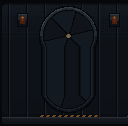
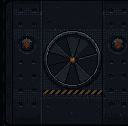
The three irises repainted at the new height, back in the pool
Jon: "Irises: A" (cap 12 generations). Their rings ran nearly top to
bottom, so no clean extension existed. Each was repainted by pixflux from
an init of its own take centred in the taller recess, the 48 new rows
drawn from its own wall (the columns beside the ring tiling their own wall
rows, those over and under it that row's wall colour), set in Drum 3's
taller entrance; only the recess pasted back, aligned on the rest.

6 of 12 generations: iris 220_1 first take (strength 220, as it held in
round four); iris 90_0 and 90_1 re-imagined themselves at 90 (a valve
wheel; lamps lost), so they went again closer to their art: 90_0 at 250,
90_1 at 250 (its diagonal lamps became dots) then 330, which kept them.
Rings round, the red lamps and the hazard sill kept. Takes, script and
ledger in art/stations/src/painted/irises/; the recesses in
src/interiors/tall/.

diff --git a/tkg/art/stations/src/painted/irises/iris.py b/tkg/art/stations/src/painted/irises/iris.py
@@ -1,0 +1,202 @@
+"""THE THREE IRISES AT THE NEW HEIGHT (Jon: "Irises: A", hard cap 12 generations). Each kept iris take, its ring kept
+round and centred in the taller recess (128 x 126), the 48 new rows drawn in code from its own wall (columns beside
+the ring tile their own wall rows; columns under/over the ring take that row's wall colour), set in Drum 3's taller
+entrance (plate x 63..246, rows 185..352, 184 x 168), re-rendered by pixflux at the strength its take held at; the
+recess only pasted back after aligning the take on everything outside it.
+
+    python iris.py --plan                          inits, nothing spent
+    python iris.py --go <iris id> [--seed N] [--strength S]
+    python iris.py --post <iris id> <take tag>     the recess, flat and lit, into joined/
+Key: PIXELLAB_API_KEY in the environment, never printed. Ledger: ledger_iris.json (cap 12).
+"""
+import base64, json, os, sys, time, urllib.request, urllib.error
+import numpy as np
+from PIL import Image
+
+HERE = os.path.dirname(os.path.abspath(__file__))
+ST = "C:/Users/Jon/Documents/GitHub/tk-wt/stations/tkg/art/stations"
+sys.path.insert(0, ST)
+import mouth  # noqa: E402
+
+API = "https://api.pixellab.ai/v1/generate-image-pixflux"
+CAP = 12
+LEDGER = os.path.join(HERE, "ledger_iris.json")
+CX, CY, CW, CH = 63, 185, 184, 168
+RX0, RY0, RX1, RY1 = 84, 206, 212, 332          # the taller recess (plate px)
+TALL = 48
+IRISES = {
+    "iris_90_0": dict(strength=90, seed=71000, ring=(36, 101)),
+    "iris_90_1": dict(strength=90, seed=71100, ring=(38, 104)),
+    "iris_220_1": dict(strength=220, seed=71200, ring=(37, 98)),
+}
+PROMPT = ("Seen strictly head-on, a flat elevation: a tall landing-bay recess inside a riveted steel frame, a thin lip "
+          "above and a deep lip below with small amber lamps along their edges, a strip of small amber lamps on the "
+          "frame's right. Inside the recess: a round airlock iris door of six overlapping steel blades set in a heavy "
+          "bolted ring centred on the back wall, a perfectly round ring, plain steel wall panels above and below it, a "
+          "pin of warm light where the blades meet, a red warning lamp in a housing on each side, yellow and black "
+          "hazard paint along the sill. Pixel art, crisp dark outline, detailed shading. No text, no letters, no "
+          "numbers, no people.")
+NEG = ("text, letters, numbers, writing, signage, logo, people, person, perspective, vanishing point, corridor in "
+       "perspective, isometric, three-quarter view, top-down view, landscape, sky, clouds, hills, trees, sunset, "
+       "painting, picture frame, window with a view of a planet, oval, ellipse, stretched, capsule, pill shape, gun, "
+       "rifle, cannon, missile, submarine, boat, car, truck, house")
+GAME_PAL = "C:/Users/Jon/Documents/GitHub/ThreeKelvin/tkg/art/sprites/palette_three_kelvin.png"
+
+
+def taller_iris(k):
+    """the iris picture (flat) at 128 x 126: its frame rows top and bottom kept, 24 rows of its own wall above and
+    below the rest"""
+    a = np.asarray(Image.open(os.path.join(ST, "src", "interiors", k + "_flat.png")).convert("RGB")).astype(float)
+    H, W = a.shape[:2]
+    r0, r1 = IRISES[k]["ring"]
+    outside = np.ones(W, bool); outside[r0:r1] = False
+
+    def band(rows):
+        seg = a[rows[0]:rows[1]]
+        b = np.zeros((24, W, 3))
+        for y in range(24):
+            src = seg[y % seg.shape[0]]
+            row = src.copy()
+            med = np.median(src[outside], 0)
+            row[~outside] = med
+            b[y] = row
+        return b
+
+    top = band((30, 38))
+    bot = band((30, 38))
+    return np.concatenate([a[:4], top, a[4:H - 4], bot, a[H - 4:]], 0)
+
+
+def plate():
+    p = np.asarray(Image.open(os.path.join(ST, "src", "drum3.png")).convert("RGBA"))
+    t, _, _, _ = mouth.taller(p)
+    return t
+
+
+def init(k):
+    t = plate().copy()
+    ir = taller_iris(k)
+    t[RY0:RY1, RX0:RX1, :3] = np.clip(ir, 0, 255).astype(np.uint8)
+    t[RY0:RY1, RX0:RX1, 3] = 255
+    return t[CY:CY + CH, CX:CX + CW]
+
+
+def palette(k):
+    cols = [tuple(int(v) for v in c) for c in np.asarray(Image.open(GAME_PAL).convert("RGB")).reshape(-1, 3)]
+    a = np.asarray(Image.open(os.path.join(ST, "src", "interiors", k + "_flat.png")).convert("RGB")).reshape(-1, 3)
+    q = Image.fromarray(a.reshape(1, -1, 3).astype(np.uint8)).quantize(24, method=Image.MEDIANCUT).getpalette()[:72]
+    cols += [tuple(q[i * 3:i * 3 + 3]) for i in range(24)]
+    u = list(dict.fromkeys(cols))
+    o = Image.new("RGB", (len(u), 1)); o.putdata(u)
+    path = os.path.join(HERE, "pal_%s.png" % k); o.save(path)
+    return path
+
+
+def ledger():
+    return json.load(open(LEDGER)) if os.path.exists(LEDGER) else {"spent": 0.0, "takes": []}
+
+
+def b64(path):
+    return base64.b64encode(open(path, "rb").read()).decode("ascii")
+
+
+def go(k, seed=None, strength=None):
+    L = ledger()
+    if L["spent"] + 1 > CAP:
+        sys.exit("cap: nothing sent")
+    key = os.environ.get("PIXELLAB_API_KEY", "").strip()
+    if not key:
+        sys.exit("no key; nothing sent")
+    j = IRISES[k]
+    seed = seed if seed is not None else j["seed"]
+    strength = strength if strength is not None else j["strength"]
+    ip = os.path.join(HERE, "inits", k + ".png")
+    body = {"description": PROMPT, "negative_description": NEG, "image_size": {"width": CW, "height": CH},
+            "no_background": True, "view": "side", "outline": "single color black outline", "shading": "detailed shading",
+            "detail": "highly detailed", "text_guidance_scale": 8, "seed": seed,
+            "init_image": {"type": "base64", "base64": b64(ip)}, "init_image_strength": strength,
+            "color_image": {"type": "base64", "base64": b64(palette(k))}}
+    t0 = time.time()
+    req = urllib.request.Request(API, data=json.dumps(body).encode("utf-8"),
+                                 headers={"Authorization": "Bearer " + key, "Content-Type": "application/json"})
+    try:
+        with urllib.request.urlopen(req, timeout=300) as r:
+            out = json.loads(r.read().decode("utf-8"))
+    except urllib.error.HTTPError as e:
+        sys.exit("refused: HTTP %d %s" % (e.code, e.read()[:300].decode("utf-8", "replace")))
+    u = out.get("usage") or {}
+    tag = "%s__s%d_%d" % (k, strength, seed)
+    os.makedirs(os.path.join(HERE, "raw_iris"), exist_ok=True)
+    open(os.path.join(HERE, "raw_iris", tag + ".png"), "wb").write(base64.b64decode(out["image"]["base64"].split(",")[-1]))
+    gens = float(u.get("generations", 0)) if u.get("type") == "generations" else None
+    L["spent"] += gens if gens is not None else 1.0
+    L["takes"].append(dict(tag=tag, iris=k, seed=seed, strength=strength, usage=u, seconds=round(time.time() - t0, 1)))
+    json.dump(L, open(LEDGER, "w"), indent=1)
+    print("take", tag, "usage", u, "spent now %.0f of %d" % (L["spent"], CAP))
+    if gens != 1.0:
+        print("USAGE NOT EXACTLY 1 GENERATION: STOP"); sys.exit(2)
+
+
+def post(k, tag):
+    ini = np.asarray(Image.open(os.path.join(HERE, "inits", k + ".png")).convert("RGBA")).astype(float)
+    raw = np.asarray(Image.open(os.path.join(HERE, "raw_iris", tag + ".png")).convert("RGBA")).astype(float)
+    lum = lambda a: a[..., 0] * 0.299 + a[..., 1] * 0.587 + a[..., 2] * 0.114
+    li, lr = lum(ini), lum(raw)
+    outside = np.ones((CH, CW), bool)
+    outside[RY0 - CY:RY1 - CY, RX0 - CX:RX1 - CX] = False
+    outside &= ini[..., 3] > 0
+    outside[:5] = outside[-5:] = False; outside[:, :5] = outside[:, -5:] = False
+    best = None
+    for dy in range(-4, 5):
+        for dx in range(-4, 5):
+            e = float(np.abs(np.roll(np.roll(lr, -dy, 0), -dx, 1) - li)[outside].mean())
+            if best is None or e < best[0]:
+                best = (e, dx, dy)
+    e, dx, dy = best
+    y0, x0 = RY0 - CY + dy, RX0 - CX + dx
+    rec = raw[y0:y0 + (RY1 - RY0), x0:x0 + (RX1 - RX0), :3]
+    os.makedirs(os.path.join(HERE, "joined_iris"), exist_ok=True)
+    Image.fromarray(rec.astype(np.uint8)).save(os.path.join(HERE, "joined_iris", k + "_flat.png"))
+    Image.fromarray(lit_version(rec).astype(np.uint8)).save(os.path.join(HERE, "joined_iris", k + "_lit.png"))
+    print(k, tag, "shift", dx, dy, "align error %.1f" % e)
+
+
+BAY = np.array([[0, 8, 2, 10], [12, 4, 14, 6], [3, 11, 1, 9], [15, 7, 13, 5]]) / 16.0
+RED2 = (214, 74, 58)
+WARM = [(92, 40, 12), (150, 66, 20), (204, 100, 28), (255, 166, 60), (255, 220, 160)]
+
+
+def lit_version(c):
+    """the entrances stream's lit-bay rule (interiors.lit_version) on the taller recess: the iris's lights 24 rows
+    lower than round four's"""
+    H, W = c.shape[:2]
+    L = [(22, 44, 14, RED2, 0.75), (114, 44, 14, RED2, 0.75), (68, 59, 30, WARM[3], 0.35), (68, H - 8, 24, WARM[2], 0.25)]
+    lum = c[..., 0] * 0.299 + c[..., 1] * 0.587 + c[..., 2] * 0.114
+    emis = (lum > 170) | ((c[..., 0] > 140) & (c[..., 0] - c[..., 2] > 70))
+    out = c * 0.62
+    yy, xx = np.mgrid[0:H, 0:W]
+    acc = np.zeros((H, W)); tint = np.zeros((H, W, 3))
+    for (x, y, r, col, k) in L:
+        v = np.clip(1 - np.hypot(xx - x, yy - y) / r, 0, 1) ** 1.5 * k
+        acc += v
+        tint += v[..., None] * np.array(col, float)
+    q = np.clip(acc, 0, 1.6) * 4
+    lo = np.floor(q); lo = lo + ((q - lo) > BAY[yy % 4, xx % 4]); s = lo / 4
+    col = tint / np.maximum(acc[..., None], 1e-6)
+    out = out * (1 + 2.2 * s[..., None]) + col * 0.16 * s[..., None]
+    out[emis] = c[emis]
+    return np.clip(out, 0, 255)
+
+
+if __name__ == "__main__":
+    a = sys.argv[1:]
+    if "--plan" in a:
+        os.makedirs(os.path.join(HERE, "inits"), exist_ok=True)
+        for k in IRISES:
+            Image.fromarray(init(k)).save(os.path.join(HERE, "inits", k + ".png"))
+        print("inits written; spent %.0f of %d" % (ledger()["spent"], CAP))
+    elif "--go" in a:
+        k = a[a.index("--go") + 1]
+        go(k, int(a[a.index("--seed") + 1]) if "--seed" in a else None, int(a[a.index("--strength") + 1]) if "--strength" in a else None)
+    elif "--post" in a:
+        post(a[a.index("--post") + 1], a[a.index("--post") + 2])

diff --git a/tkg/art/stations/sides.py b/tkg/art/stations/sides.py
@@ -78,8 +78,7 @@ SIDES = {
     "shanty3": ("shanty", "shanty3.png", "brown", []),
     "terraces": ("wall", "terraces.png", "dark", []),
 }
-# (all thirteen are made; the irises' rings cannot be made taller cleanly, and `StationSides` leaves them out of the
-# pool until they are painted at the new height)
+# (the irises' rings cannot be made taller cleanly: they were repainted at the new height, src/interiors/tall/)
 INTERIORS = ["iris_90_0", "iris_90_1", "iris_220_1", "hallway_90_1", "hallway_130_0", "hallway_130_1", "hallway_170_0",
              "hallway_170_1", "hallway_220_0", "cargo_90_0", "cargo_130_0", "cargo_130_1", "cargo_170_0"]
 
@@ -486,6 +485,18 @@ def interiors():
     genuinely repeats (`mouth.extend_picture`, found on the lit picture, the same cut made in the flat one)"""
     report = {}
     for k in INTERIORS:
+        tall = os.path.join(SRC, "interiors", "tall", k + "_flat.png")
+        if os.path.exists(tall):
+            # (painted at the new height: the irises, Jon's "Irises: A" -- src/painted/irises/)
+            flat = np.asarray(Image.open(tall).convert("RGB")).astype(float)
+            lit = np.asarray(Image.open(tall.replace("_flat.png", "_lit.png")).convert("RGB"))
+            report[k] = dict(painted=True)
+            d = os.path.join(HERE, "interiors", k)
+            os.makedirs(d, exist_ok=True)
+            a = np.full(flat.shape[:2] + (1,), 255, np.uint8)
+            Image.fromarray(np.concatenate([np.round(flat * 0.45).astype(np.uint8), a], -1)).save(os.path.join(d, "dark.png"), optimize=True)
+            Image.fromarray(np.concatenate([lit, a], -1)).save(os.path.join(d, "lit.png"), optimize=True)
+            continue
         flat0 = np.asarray(Image.open(os.path.join(SRC, "interiors", k + "_flat.png")).convert("RGB"))
         lit0 = np.asarray(Image.open(os.path.join(SRC, "interiors", k + "_lit.png")).convert("RGB"))
         if k in WALL_ONLY:
